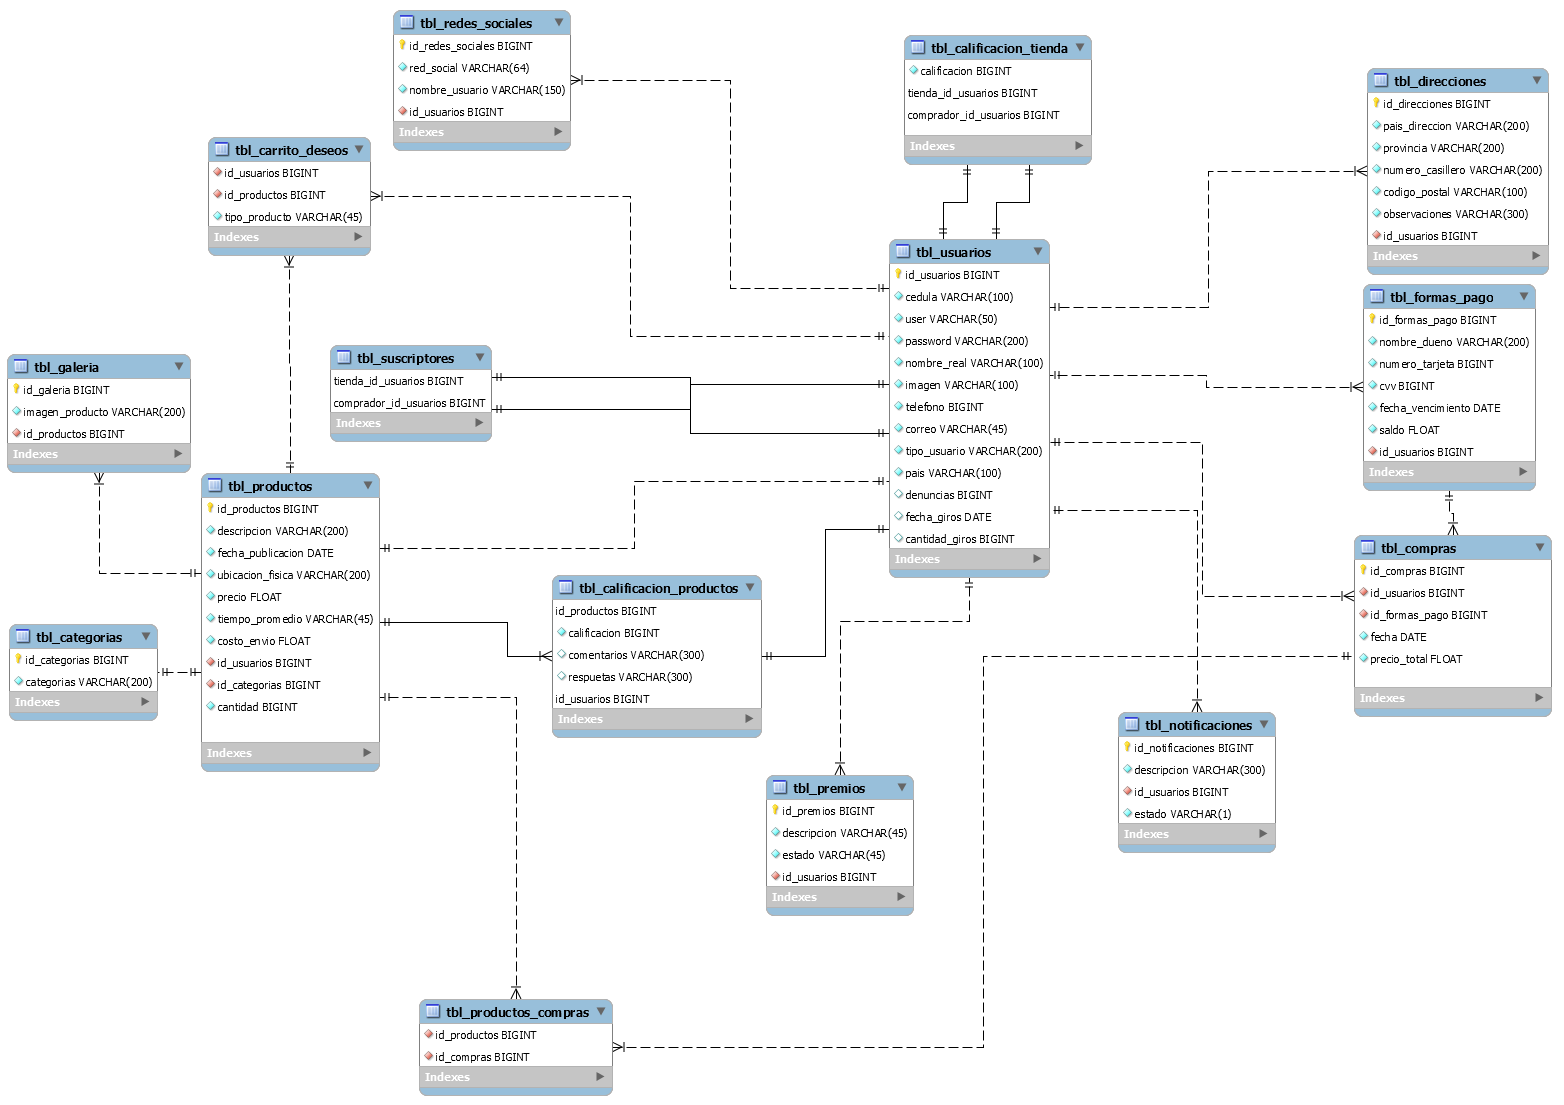
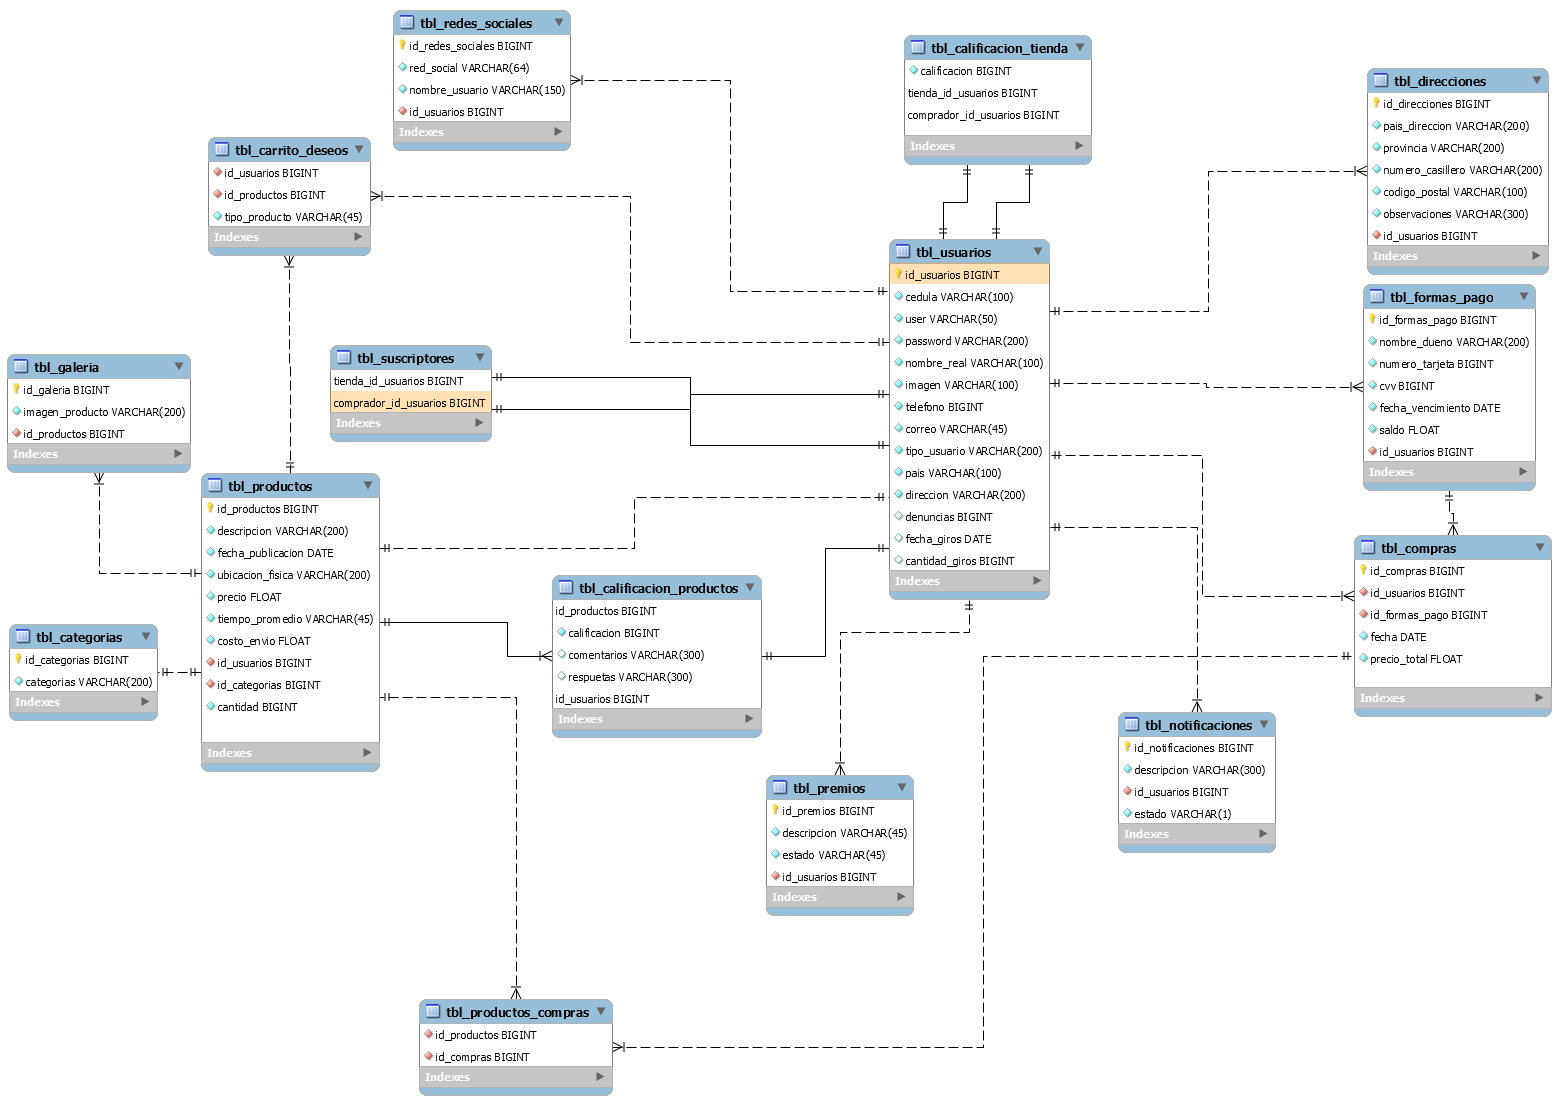
cambios

Changed region(s): [[0.5524, 0.4308, 0.6752, 0.5538], [0.5524, 0.2154, 0.6752, 0.2769], [0.2148, 0.3385, 0.3376, 0.4]]

diff --git a/marketplace/resources/css/style.css b/marketplace/resources/css/style.css
@@ -244,7 +244,7 @@ img {
 
 .form-group-photo {
 	position: absolute;
-	top: 56%;
+	top: 66%;
 	left: 50%;
 	color: #FFF;
 }

diff --git a/marketplace/application/controllers/User.php b/marketplace/application/controllers/User.php
@@ -33,6 +33,16 @@ class User extends CI_Controller
         $data['_view'] = $view;
         $this->load->view('layouts/main', $data);
     }
+    function load_data_view2($view, $mess)
+    {
+        $this->load->model('Tienda_model');
+        $data['direcciones'] = $this->User_model->get_directions($this->session->userdata['logged_in']['users_id']);
+        $data['pagos'] = $this->User_model->get_forms_pay($this->session->userdata['logged_in']['users_id']);
+        $data['social'] = $this->User_model->get_red_social($this->session->userdata['logged_in']['users_id']);
+        $data['_view'] = $view;
+        $data['message_display'] = $mess;
+        $this->load->view('layouts/main', $data);
+    }
 
     function agregarUsuario()
     {
@@ -45,6 +55,7 @@ class User extends CI_Controller
         $this->form_validation->set_rules('txt_correo', 'Correo', 'required|max_length[45]');
         $this->form_validation->set_rules('txt_cedula', 'Cedula', 'required|max_length[100]');
         $this->form_validation->set_rules('txt_pais', 'Pais', 'required|max_length[100]');
+        $this->form_validation->set_rules('txt_direccion', 'Direccion', 'required|max_length[200]');
 
         if ($this->form_validation->run()) {
             $config['upload_path']          = './resources/files/';
@@ -63,6 +74,7 @@ class User extends CI_Controller
                     'cedula' => $this->input->post('txt_cedula'),
                     'pais' => $this->input->post('txt_pais'),
                     'tipo_usuario' => $this->input->post('cmb_tipo'),
+                    'direccion' => $this->input->post('txt_direccion'),
                     'imagen' => 'unknown.jpg',
                 );
             } else {
@@ -75,6 +87,7 @@ class User extends CI_Controller
                     'correo' => $this->input->post('txt_correo'),
                     'cedula' => $this->input->post('txt_cedula'),
                     'pais' => $this->input->post('txt_pais'),
+                    'direccion' => $this->input->post('txt_direccion'),
                     'tipo_usuario' => $this->input->post('cmb_tipo'),
                     'imagen' => $this->upload->data('file_name'),
                 );
@@ -83,7 +96,6 @@ class User extends CI_Controller
             $user_id = $this->User_model->add_user($params);
 
             $data['message_display'] = 'Te has registrado exitosamente.';
-            // $this->load->view('user/add', $data);
             $this->index();
         } else {
             $data['_view'] = 'user/add';
@@ -107,9 +119,10 @@ class User extends CI_Controller
             $this->form_validation->set_rules('txt_correo', 'Correo', 'required|max_length[45]');
             $this->form_validation->set_rules('txt_cedula', 'Cedula', 'required|max_length[100]');
             $this->form_validation->set_rules('txt_pais', 'Pais', 'required|max_length[100]');
+            $this->form_validation->set_rules('txt_direccion', 'Direccion', 'required|max_length[200]');
 
             if ($this->form_validation->run()) {
-                $params = array(                 
+                $params = array(
                     'user' => $this->input->post('txt_usuario'),
                     'password' => password_hash($this->input->post('txt_clave'), PASSWORD_BCRYPT),
                     'nombre_real' => $this->input->post('txt_nombre'),
@@ -117,6 +130,7 @@ class User extends CI_Controller
                     'correo' => $this->input->post('txt_correo'),
                     'cedula' => $this->input->post('txt_cedula'),
                     'pais' => $this->input->post('txt_pais'),
+                    'direccion' => $this->input->post('txt_direccion'),
                     'tipo_usuario' => $this->input->post('cmb_tipo'),
                 );
 
@@ -169,7 +183,7 @@ class User extends CI_Controller
         } else {
             $data = array('upload_data' => $this->upload->data());
             $params = array(
-                'photo' => $this->upload->data('file_name'),
+                'imagen' => $this->upload->data('file_name'),
             );
 
             $this->User_model->update_user($users_id, $params);
@@ -178,5 +192,94 @@ class User extends CI_Controller
         }
 
         redirect('user/edit/' . $users_id);
+    }
+
+    function agregarmetodo()
+    {
+        $this->load->library('form_validation');
+
+        $this->form_validation->set_rules('txt_propietario', 'Dueño', 'required|max_length[200]');
+        $this->form_validation->set_rules('txt_numero', 'Numero', 'required|max_length[16]');
+        $this->form_validation->set_rules('txt_codigo', 'CVV', 'required|max_length[4]');
+        $this->form_validation->set_rules('vencimiento', 'fecha', 'required');
+        $this->form_validation->set_rules('txt_saldo', 'saldo', 'required');
+
+
+        if ($this->form_validation->run()) {
+
+            $params = array(
+                'nombre_dueno' => $this->input->post('txt_propietario'),
+                'numero_tarjeta' => $this->input->post('txt_numero'),
+                'cvv' => $this->input->post('txt_codigo'),
+                'fecha_vencimiento' => $this->input->post('vencimiento'),
+                'saldo' => $this->input->post('txt_saldo'),
+                'id_usuarios' => $this->session->userdata['logged_in']['users_id'],
+
+            );
+
+
+            $user_id = $this->User_model->add_pay($params);
+
+            $data['message_display'] = 'Ha registrado el metodo de pago correctamente.';
+            $this->load_data_view2('user/social', $data['message_display']);
+        } else {
+            $data['_view'] = 'user/social';
+            $this->load->view('layouts/main', $data);
+        }
+    }
+
+    function delete_metodos($pay_id)
+    {
+        $data['pay'] = $this->User_model->get_form_pay($pay_id);
+        $this->User_model->delete_pay($pay_id);
+        $data['message_display'] = 'Se ha eliminado el metodo de pago!';
+        $this->load_data_view2('user/social', $data['message_display']);
+    }
+
+    function mantmetodo($id)
+    {
+
+
+        if (isset($_POST['btn_elim'])) {
+            $this->delete_metodos($id);
+        } else {
+            // $this->load->library('form_validation');
+
+            // $this->form_validation->set_rules('txt_descripcion', 'Decripcion', 'required|max_length[200]');
+            // $this->form_validation->set_rules('txt_cantidad', 'Cantidad', 'required|max_length[20]');
+            // $this->form_validation->set_rules('txt_costoEnvio', 'ContoEnvio', 'required|max_length[200]');
+            // $this->form_validation->set_rules('txt_precio', 'Precio', 'required|max_length[200]');
+            // $this->form_validation->set_rules('cmb_categoria', 'Categoria', 'required|max_length[200]');
+            // $this->form_validation->set_rules('txt_entrega', 'Entrega', 'required|max_length[45]');
+            // $this->form_validation->set_rules('txt_ubicacion', 'Ubicacion', 'required|max_length[200]');
+
+            // if ($this->form_validation->run()) {
+            // 	$params = array(
+            // 		'descripcion' => $this->input->post('txt_descripcion'),
+            // 		'cantidad' => $this->input->post('txt_cantidad'),
+            // 		'id_categorias ' => $this->input->post('cmb_categoria'),
+            // 		'id_usuarios ' => $this->session->userdata['logged_in']['users_id'],
+            // 		'costo_envio' => $this->input->post('txt_costoEnvio'),
+            // 		'tiempo_promedio' => $this->input->post('txt_entrega'),
+            // 		'precio' => $this->input->post('txt_precio'),
+            // 		'ubicacion_fisica' => $this->input->post('txt_ubicacion')
+            // 	);
+            // 	$this->Tienda_model->editProducto($params, $id);
+
+            // 	$data['message_display'] = 'Se ha guardado el producto exitosamente.';
+            // 	$this->index();
+            // } else {
+            // 	$producto = $this->Tienda_model->get_productos_id($id);
+            // 	if ($producto != FALSE) {
+            // 		$categoria = $this->Tienda_model->get_categorias();
+            // 		$data['categorias'] = $categoria;
+            // 		$data['producto'] = $producto[0];
+            // 		$data['_view'] = 'tienda/editProducto';
+            // 		$this->load->view('layouts/main', $data);
+            // 	} else {
+            // 		$this->index();
+            // 	}
+            // }
+        }
     }
 }

diff --git a/marketplace/application/views/user/social.php b/marketplace/application/views/user/social.php
@@ -16,6 +16,7 @@ if (validation_errors() !== "") {
 }
 
 ?>
+
 <div id="panel_app">
     <div class="box-header">
         <h2 class="box-title">Otras configuraciones del usuario</h2>
@@ -29,21 +30,21 @@ if (validation_errors() !== "") {
     <div class="form-row">
         <div id="pago">
             <h2 id="user">Formas de pago</h2>
-            <?php echo form_open('user/agregarUsuario'); ?>
+            <?php echo form_open('user/agregarmetodo'); ?>
             <div class="column" id="primero">
                 <div class="col-md-4 mb-3">
                     <label for="validationServer013">Nombre del propietario</label>
-                    <input type="text" id="propietario" placeholder="Nombre del propietario" class="cajatexto2" required>
+                    <input type="text" name="txt_propietario" id="txt_propietario" placeholder="Nombre del propietario" class="cajatexto2" required>
 
                 </div>
                 <div class="col-md-4 mb-3">
                     <label for="validationServer023">Numero tarjeta</label>
-                    <input type="number" id="numero" placeholder="Numero tarjeta" class="cajatexto2" required>
+                    <input type="number" name="txt_numero" id="txt_numero" placeholder="Numero tarjeta" class="cajatexto2" required>
 
                 </div>
                 <div class="col-md-4 mb-3">
                     <label for="validationServer023">CVV</label><br>
-                    <input type="number" id="numero" placeholder="Codigo de seguridad" class="cajatexto2" required>
+                    <input type="number" name="txt_codigo" id="txt_codigo" placeholder="Codigo de seguridad" class="cajatexto2" required>
 
                 </div>
                 <div class="col-md-4 mb-3">
@@ -53,7 +54,7 @@ if (validation_errors() !== "") {
                 </div>
                 <div class="col-md-4 mb-3">
                     <label for="validationServer023">Saldo tarjeta</label>
-                    <input type="number" id="numero" placeholder="Saldo tarjeta" class="cajatexto2" required>
+                    <input type="number" name="txt_saldo" id="txt_saldo" placeholder="Saldo tarjeta" class="cajatexto2" required>
 
                 </div>
 
@@ -76,7 +77,7 @@ if (validation_errors() !== "") {
                         <tbody id="tbTable">
                             <?php 
                             foreach ($pagos as $pa) { ?>
-							<!-- <?php echo form_open('tienda/mantPro/' . $pro['id_productos']); ?> -->
+							<?php echo form_open('user/mantmetodo/' . $pa['id_formas_pago']); ?>
 							<tr align="center">
 								<td><?php echo $pa['nombre_dueno'] ?></td>
 								<td><?php echo $pa['numero_tarjeta'] ?></td>
@@ -84,7 +85,7 @@ if (validation_errors() !== "") {
 								<td><?php echo $pa['saldo'] ?></td>							
 								<td> <button type="submit" name="btn_editar" id="btn_editar" class="btn btn-secondary btn-sm me-2" title="Editar">Editar</button> <button type="submit" name="btn_elim" id="btn_elim" class="btn btn-danger btn-sm" title="Eliminar" >Eliminar</button> </td>
 							</tr>
-							<!-- <?php echo form_close(); ?> -->
+							<?php echo form_close(); ?>
 						<?php } ?>
 
                         </tbody>
@@ -102,12 +103,12 @@ if (validation_errors() !== "") {
             <div class="column" id="primero">
                 <div class="col-md-4 mb-3">
                     <label for="validationServer013">Pais</label>
-                    <input type="text" name="pais" id="pais" placeholder="Pais" class="cajatexto2" required>
+                    <input type="text" name="txt_pais" id="txt_pais" placeholder="Pais" class="cajatexto2" required>
 
                 </div>
                 <div class="col-md-4 mb-3">
                     <label for="validationServer023">Provincia</label>
-                    <input type="number" name="provincia" id="provincia" placeholder="Provincia" class="cajatexto2" required>
+                    <input type="number" name="txt_provincia" id="txt_provincia" placeholder="Provincia" class="cajatexto2" required>
 
                 </div>
                 <div class="col-md-4 mb-3">

diff --git a/marketplace/application/views/user/edit.php b/marketplace/application/views/user/edit.php
@@ -48,7 +48,7 @@
 					<input type="text" name="txt_cedula" value="<?php echo ($this->input->post('txt_cedula') ? $this->input->post('txt_cedula') : $user['cedula']); ?>" class="cajatexto" id="txt_cedula" />
 					<span class="text-danger"><?php echo form_error('txt_cedula'); ?></span>
 				</div>
-	
+
 			</div>
 
 			<div id="div2">
@@ -65,19 +65,24 @@
 				<label for="cmb_tipo" class="control-label"><span class="text-danger">* </span>Tipo usuario:</label>
 				<div class="form-group">
 					<select name="cmb_tipo" id="cmb_tipo" variant="primary" <?php echo ($this->input->post('cmb_tipo') ? $this->input->post('cmb_tipo') : $user['tipo_usuario']); ?> class="form-select form-select-sm" aria-label=".form-select-sm example" class="d-flex form-control form-control-sm">
-						<?php if($user['tipo_usuario']=='Comprador'){ ?>
+						<?php if ($user['tipo_usuario'] == 'Comprador') { ?>
 							<option value="Comprador" selected> Comprador</option>
 							<option value="Tienda">Tienda</option>
-						<?php } else{?>
+						<?php } else { ?>
 							<option value="Comprador"> Comprador</option>
 							<option value="Tienda" selected>Tienda</option>
-						<?php }?>
+						<?php } ?>
 					</select>
 				</div>
 				<label for="txt_pais" class="control-label"><span class="text-danger">* </span>Pais:</label>
 				<div class="form-group">
 					<input type="text" name="txt_pais" value="<?php echo ($this->input->post('txt_pais') ? $this->input->post('txt_pais') : $user['pais']); ?>" class="cajatexto" id="txt_pais" />
 					<span class="text-danger"><?php echo form_error('txt_pais'); ?></span>
+				</div>
+				<label for="txt_direccion" class="control-label"><span class="text-danger">* </span>Direccion:</label>
+				<div class="form-group">
+					<input type="text" name="txt_direccion" value="<?php echo ($this->input->post('txt_direccion') ? $this->input->post('txt_direccion') : $user['direccion']); ?>" class="cajatexto" id="txt_direccion" />
+					<span class="text-danger"><?php echo form_error('txt_direccion'); ?></span>
 				</div>
 			</div>
 
@@ -99,7 +104,7 @@
 
 			<div class="box-body">
 				<div class="form-group-photo">
-					<?php echo "<img src='" . site_url('/resources/photos/' . $this->session->userdata['logged_in']['imagen'])
+					<?php echo "<img src='" . site_url('/resources/photos/' . $user['imagen'])
 						. "' alt='Editar Foto' title='Editar Foto'  width=70 height=70 id='photo_profile' />"; ?>
 
 					<?php echo form_open_multipart('user/upload_photo/' . $user['id_usuarios']); ?>

diff --git a/marketplace/application/models/User_model.php b/marketplace/application/models/User_model.php
@@ -33,12 +33,33 @@ class User_model extends CI_Model
     {
         return $this->db->query("SELECT tbl_direcciones.* FROM tbl_direcciones WHERE tbl_direcciones.id_usuarios = " . $users_id)->result_array();
     }
+    
+    function get_red_social($users_id)
+    {
+        return $this->db->query("SELECT tbl_redes_sociales.* FROM tbl_redes_sociales WHERE tbl_redes_sociales.id_usuarios = " . $users_id)->result_array();
+    }
+
+
     function get_forms_pay($users_id)
     {
         return $this->db->query("SELECT tbl_formas_pago.* FROM tbl_formas_pago WHERE tbl_formas_pago.id_usuarios = " . $users_id)->result_array();
     }
-    function get_red_social($users_id)
+    function get_form_pay($pay_id)
     {
-        return $this->db->query("SELECT tbl_redes_sociales.* FROM tbl_redes_sociales WHERE tbl_redes_sociales.id_usuarios = " . $users_id)->result_array();
+        return $this->db->query("SELECT tbl_formas_pago.* FROM tbl_formas_pago WHERE tbl_formas_pago.id_formas_pago = " . $pay_id)->row_array();
+    }
+    function add_pay($params)
+    {
+        $this->db->insert('tbl_formas_pago', $params);
+        return $this->db->insert_id();
+    }
+    function delete_pay($pay_id)
+    {
+        return $this->db->delete('tbl_formas_pago', array('id_formas_pago' => $pay_id));
+    }
+    function update_pay($pay_id, $params)
+    {
+        $this->db->where('id_formas_pago', $pay_id);
+        return $this->db->update('tbl_formas_pago', $params);
     }
 }

diff --git a/marketplace/application/views/user/add.php b/marketplace/application/views/user/add.php
@@ -73,6 +73,11 @@ if (validation_errors() !== "") {
 				<input type="text" name="txt_pais" value="<?php echo $this->input->post('txt_pais'); ?>" class="cajatexto" id="txt_pais" />
 				<span class="text-danger"><?php echo form_error('txt_pais'); ?></span>
 			</div>
+			<label for="txt_direccion" class="control-label"><span class="text-danger">* </span>Direccion:</label>
+			<div class="form-group">
+				<input type="text" name="txt_direccion" value="<?php echo $this->input->post('txt_direccion'); ?>" class="cajatexto" id="txt_direccion" />
+				<span class="text-danger"><?php echo form_error('txt_pais'); ?></span>
+			</div>
 		</div>
 
 		<div id="div3">

diff --git a/marketplace/application/config/database.php b/marketplace/application/config/database.php
@@ -77,7 +77,7 @@ $db['default'] = array(
 	'dsn'	=> '',
 	'hostname' => 'localhost',
 	'username' => 'root',
-	'password' => '',
+	'password' => '12345',
 	'database' => 'bd_marketplace',
 	'dbdriver' => 'mysqli',
 	'dbprefix' => '',
